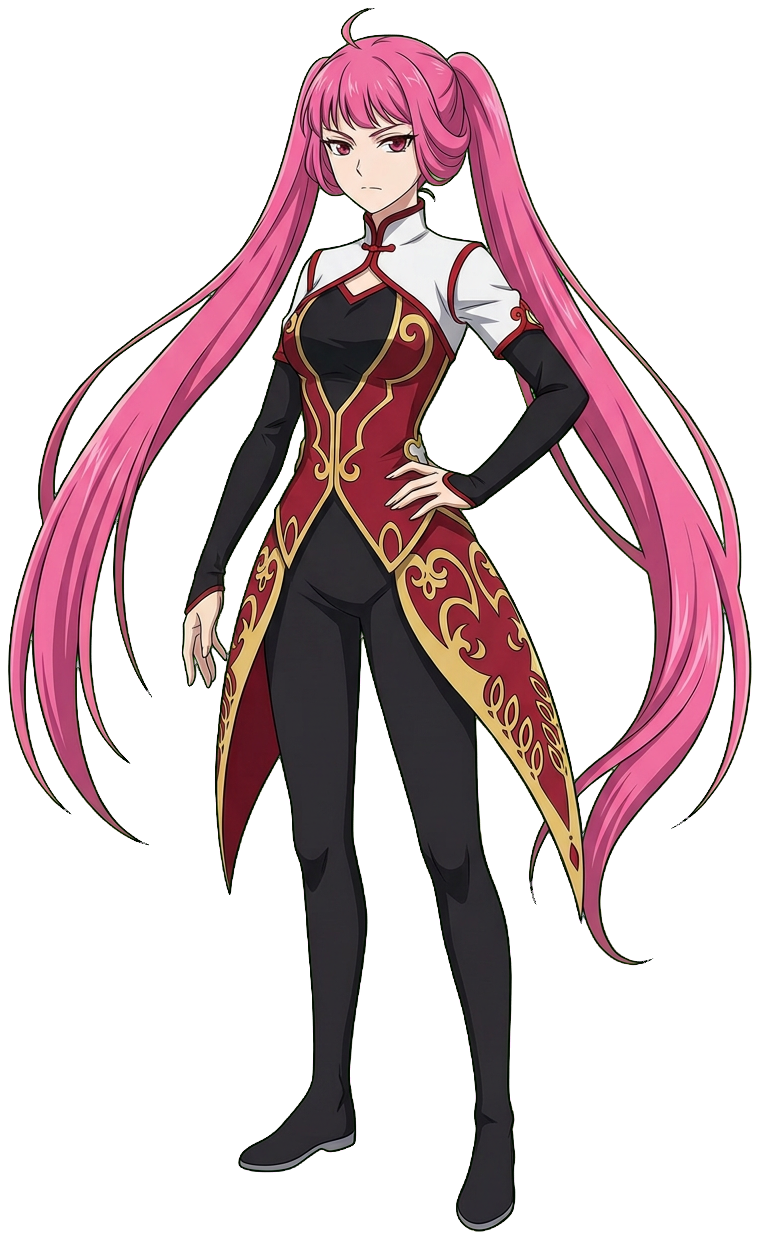
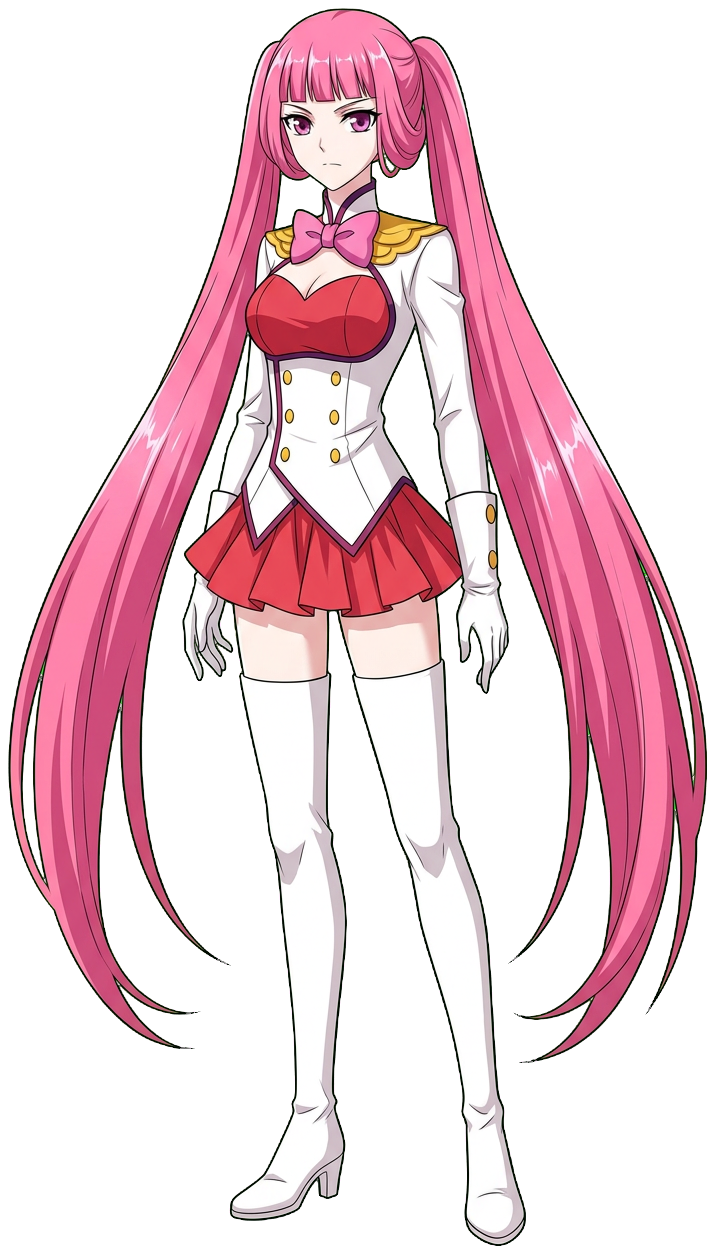
recheck: 纳兰嫣然 redrawn from manhua ch74-75

diff --git a/dev/design/漫画复核进度.md b/dev/design/漫画复核进度.md
@@ -14,4 +14,4 @@
 | 纳兰嫣然 | nalan | 1-2（粉双马尾、白衬衫红裙） | ⏳ Boss 按第2章三年之约那一话核对 |
 | 萧战 | xiaozhan | 1-2（退婚） | ❌→已重画（圆框眼镜、粗黑眉、灰发后束、灰山羊胡、大木珠、深蓝灰袍） |
 | 葛叶 | geye | 1-2 | ✅ 一致（白发白长须、白袍） |
-| 纳兰嫣然 | nalan | 1-2 退婚=粉发+白粉水手服粉百褶裙（仅剧情插图）；Boss 用 74-75 三年之约 | 待核对 74-75 |
+| 纳兰嫣然 | nalan | 1-2 退婚=粉发+白粉水手服粉百褶裙（仅剧情插图）；Boss 用 74-75 三年之约 | ❌→已重画（74-75：粉超长双马尾、白短外套金肩章、红上衣粉蝴蝶结、红百褶裙、白长靴）；退婚粉白水手服留作剧情插图 |
